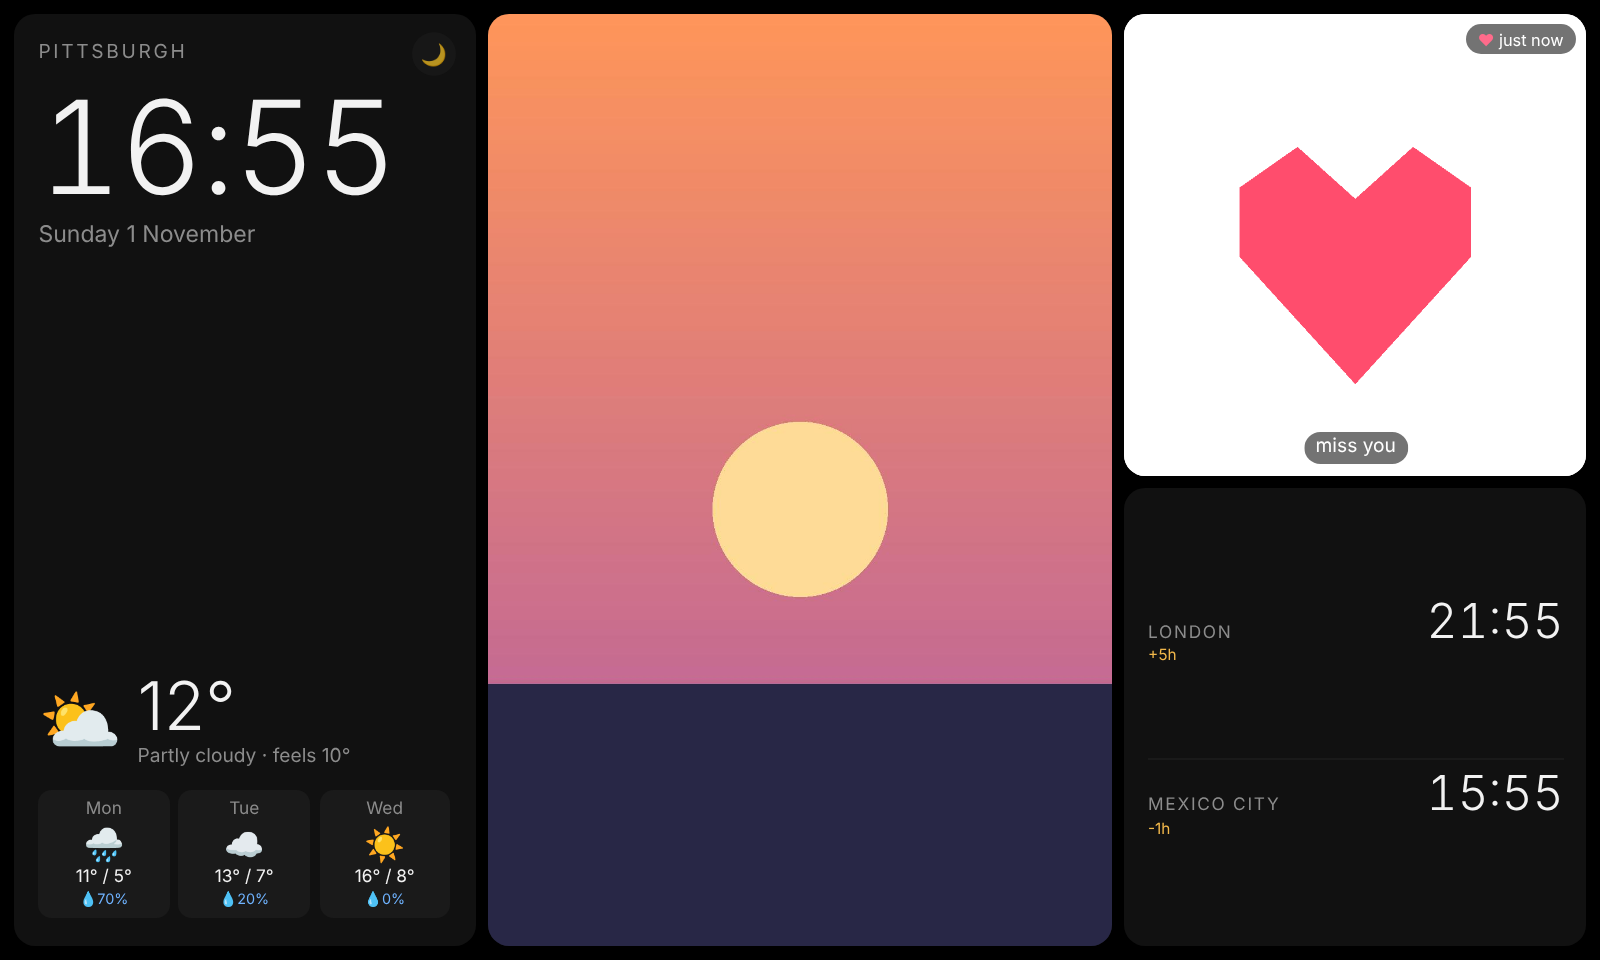
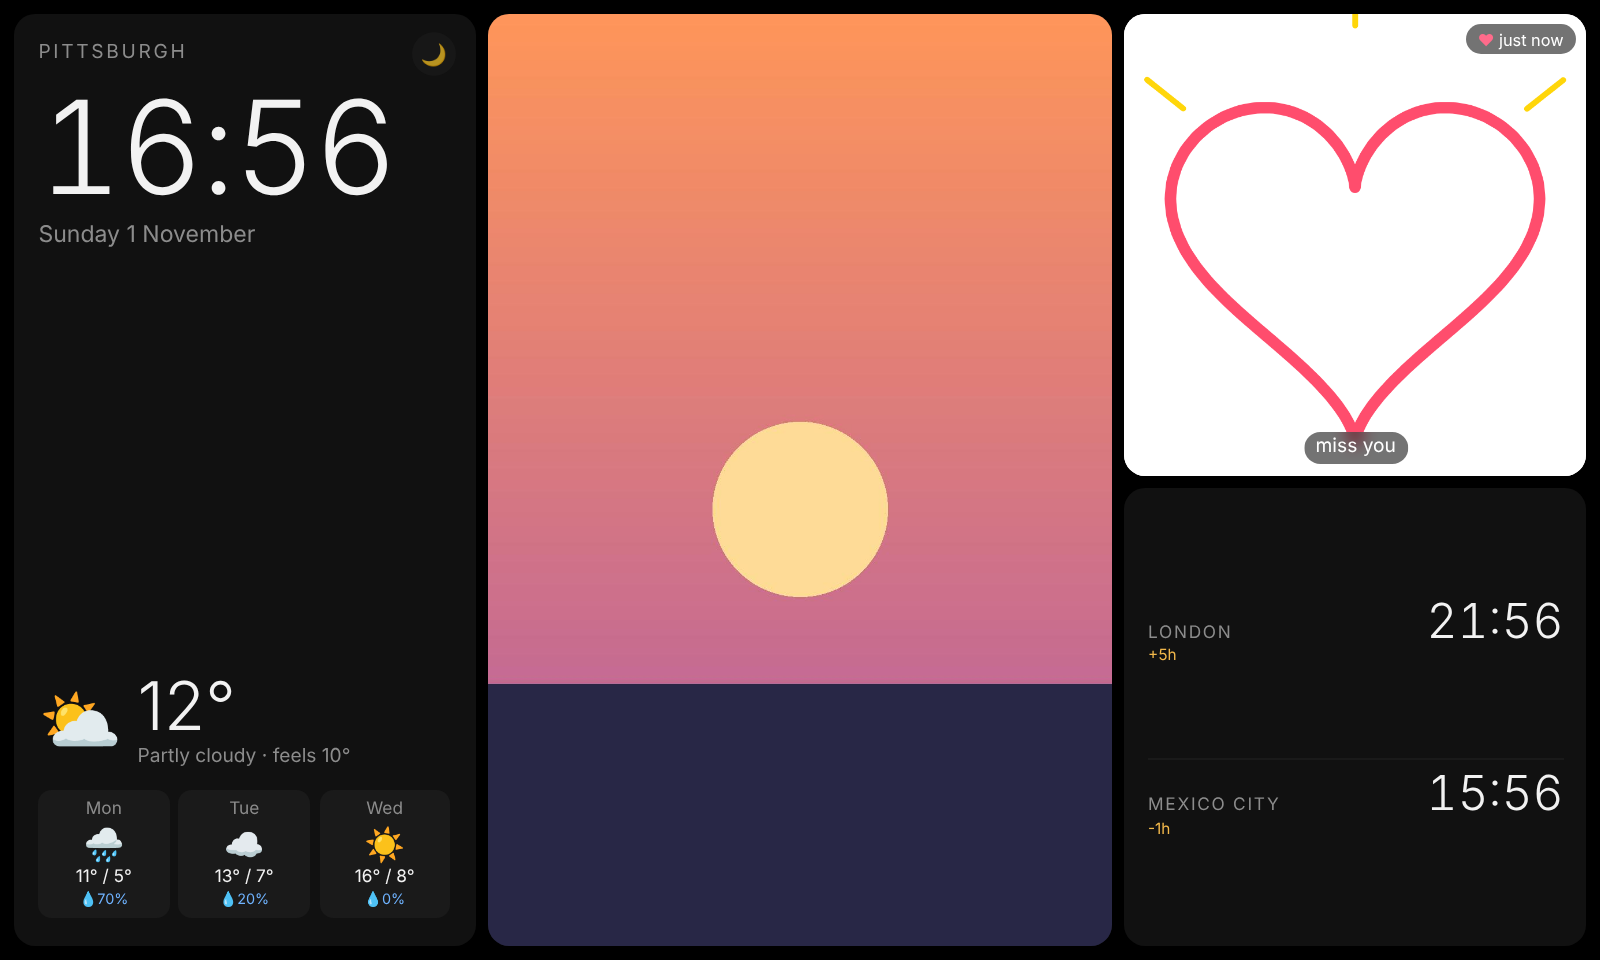
Add device photo and product screenshots to README
Claude-Session: https://claude.ai/code/session_01CCx2icszonFbH3kDbDf435

Changed region(s): [[0.7188, 0.0938, 0.9688, 0.4688], [0.1875, 0.0938, 0.25, 0.1875]]

diff --git a/README.md b/README.md
@@ -4,7 +4,20 @@
 
 The screen at home always shows the time and weather, a slideshow of your photos, and the latest drawing from your partner. Your partner gets a private link on their phone. From it they can draw something or send photos straight from their camera, and it appears on the screen within seconds.
 
+![The dashboard running on a Raspberry Pi 7" touchscreen](docs/device.jpg)
+
+## Screenshots
+
+**What's on the Pi screen:** main clock, weather, photo slideshow, the latest drawing, world clocks.
+
 ![Dashboard](docs/screenshot.png)
+
+<table>
+  <tr>
+    <td width="32%" valign="top"><b>Partner's phone</b><br>Draw, add a message, send. Or send photos from the camera or gallery.<br><br><img src="docs/phone.png" alt="Phone drawing page"></td>
+    <td valign="top"><b>Tap the drawing</b>: full screen<br><img src="docs/fullscreen-drawing.png" alt="Drawing full screen"><br><br><b>Tap a photo</b>: full screen, uncropped<br><img src="docs/fullscreen-photo.png" alt="Photo full screen"></td>
+  </tr>
+</table>
 
 ## Features
 
